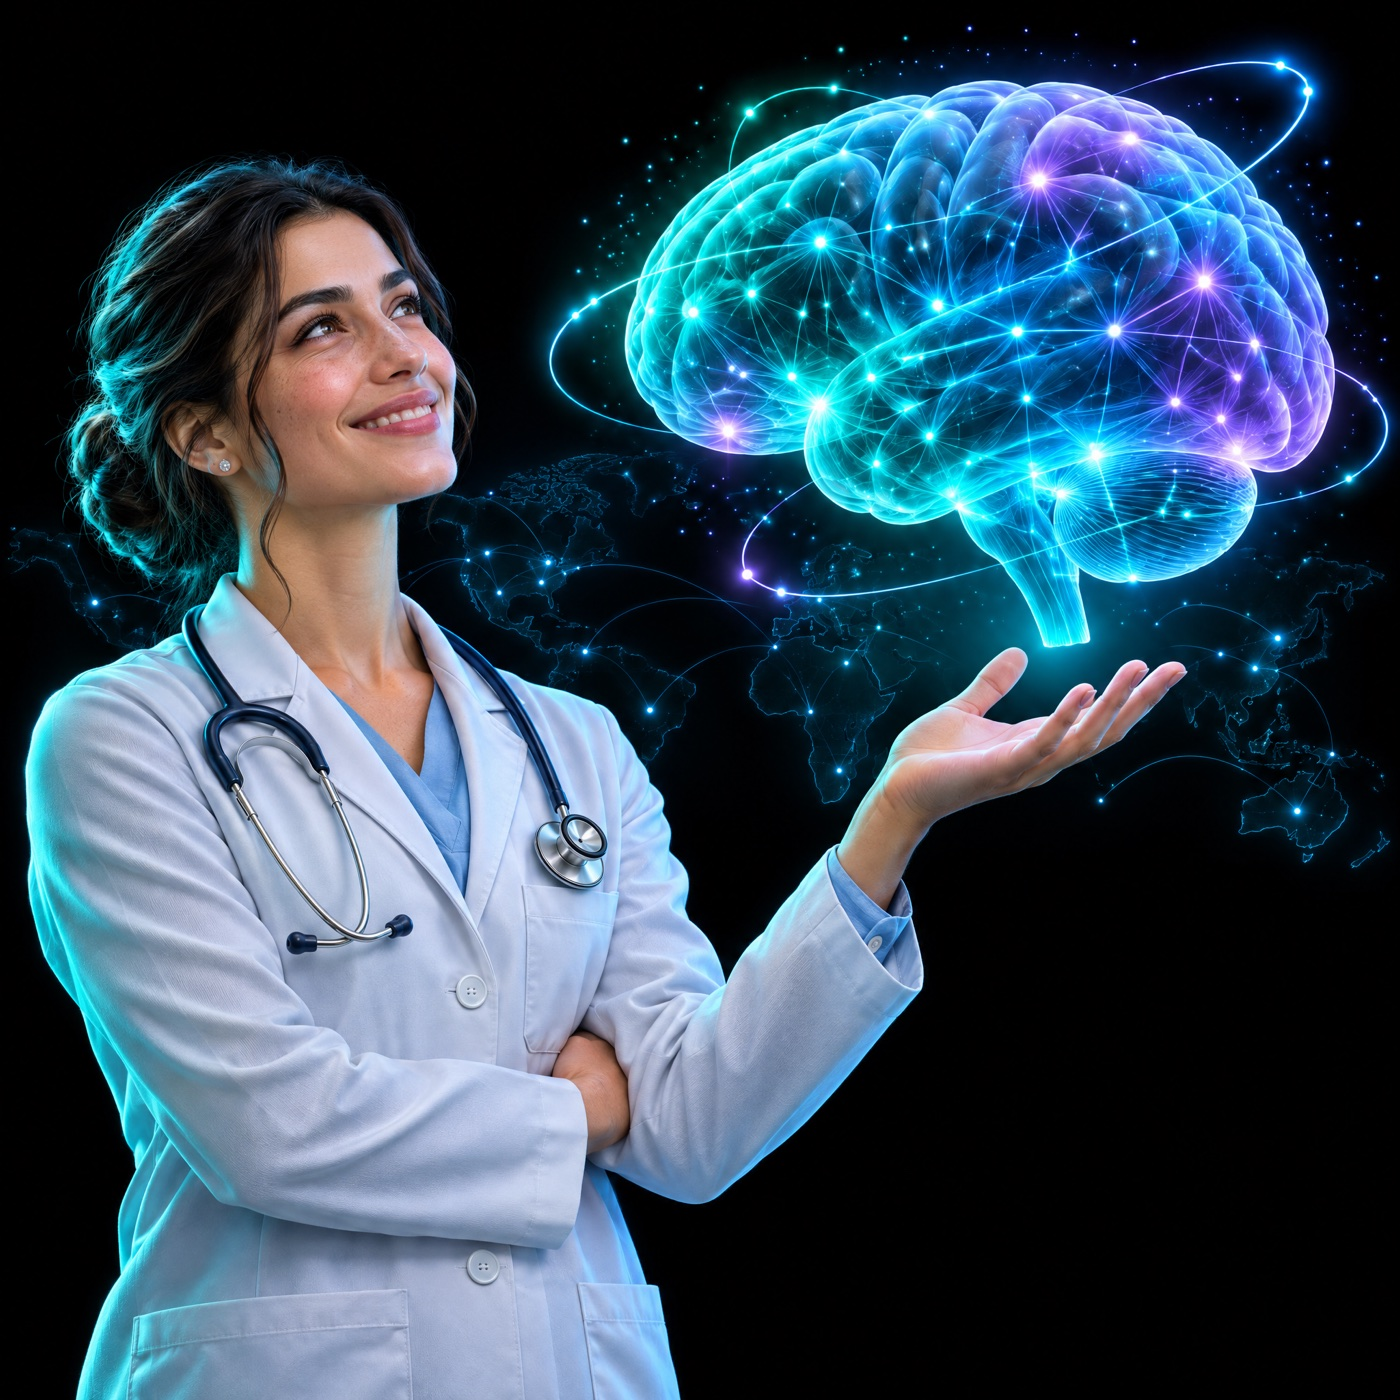
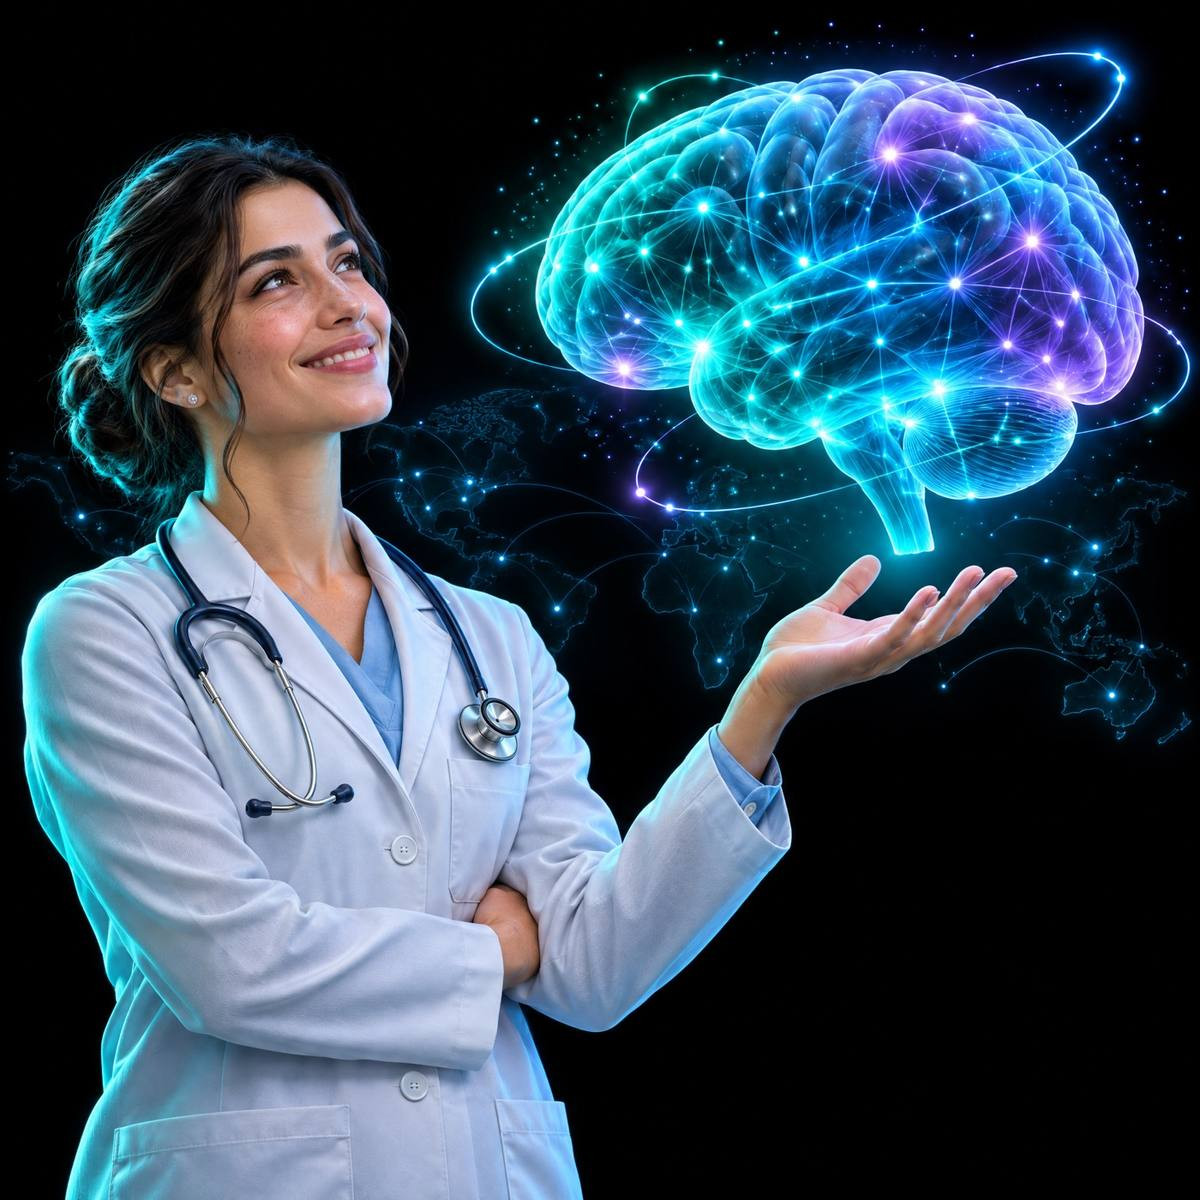
Faster on phones: light effects by default on phones and slower devices, no blur, animations pause in background tabs, less server polling, images 545/708 KB to 150/121 KB

diff --git a/index.html b/index.html
@@ -513,6 +513,12 @@ nav{border-bottom-color:hsla(var(--h),70%,50%,.25)!important}
 .card,.step,.fcol,.price,.place,.dir-card{border-color:hsla(var(--h),40%,40%,.28)}
 .sec-num,.kicker{transition:color .4s}
 @media (prefers-reduced-motion: reduce){#ambient{display:none}}
+html.fx-calm *,html.fx-off *{backdrop-filter:none!important;-webkit-backdrop-filter:none!important}
+html.fx-calm #ambient:after,html.fx-off #ambient{display:none}
+html.fx-calm .drift,html.fx-off .drift{transform:none!important}
+html.fx-calm nav{background:rgba(6,8,11,.96)}html.fx-calm[data-theme="light"] nav{background:rgba(255,255,255,.97)}
+html.fx-calm .brain-layer,html.fx-calm .brain-glow,html.fx-off .brain-layer,html.fx-off .brain-glow{animation:none!important}
+html.paused *,html.paused *:before,html.paused *:after{animation-play-state:paused!important}
 
 html.fx-calm .mv{transform:translateY(22px)!important;filter:none!important}
 html.fx-off .mv{opacity:1!important;transform:none!important;filter:none!important;transition:none!important}
@@ -1059,7 +1065,7 @@ html[data-theme="light"] .phone,html[data-theme="light"] .stage{--bg:#06080b;--p
       </div>
     </div>
     <div class="hero-visual">
-    <div class="hero-art"><img class="base" src="assets/hero-doctor-brain.jpg?v=2" alt="A doctor holding a glowing brain" width="1400" height="1400" decoding="async"><div class="brain-layer idle" id="brainLayer"><img src="assets/hero-doctor-brain.jpg?v=2" alt="" decoding="async"></div><span class="brain-glow"></span><button class="brain-btn" id="brainBtn" aria-label="Spin the brain"></button><span class="brain-tip notranslate" id="brainTip">✨ Click the brain</span></div>
+    <div class="hero-art"><img class="base" src="assets/hero-doctor-brain.jpg?v=3" fetchpriority="high" alt="A doctor holding a glowing brain" width="1400" height="1400" decoding="async"><div class="brain-layer idle" id="brainLayer"><img src="assets/hero-doctor-brain.jpg?v=2" alt="" decoding="async"></div><span class="brain-glow"></span><button class="brain-btn" id="brainBtn" aria-label="Spin the brain"></button><span class="brain-tip notranslate" id="brainTip">✨ Click the brain</span></div>
     <div class="phone">
       <div class="notch"></div>
       <div class="wa-head"><div class="av">C</div><div><b>Clinora · AI</b><span>online · replies instantly</span></div></div>
@@ -1240,7 +1246,7 @@ html[data-theme="light"] .phone,html[data-theme="light"] .stage{--bg:#06080b;--p
       <p>Read and study real medical books for free: open textbooks, public-domain classics and official health manuals from around the world. Everything here is free and legal to read.</p>
     </div>
     <div class="card bw-hero"><div class="bw-art" id="bwArt" role="button" tabindex="0" aria-label="Interactive medical hologram, tap to animate">
-        <div class="bw-tilt"><img src="assets/med-library.jpg" alt="A glowing holographic human anatomy rising from an open medical book"></div>
+        <div class="bw-tilt"><img src="assets/med-library.jpg?v=2" loading="lazy" decoding="async" alt="A glowing holographic human anatomy rising from an open medical book"></div>
         <span class="bw-shine"></span><canvas class="bw-fx" id="bwFx"></canvas><span class="bw-tip">✨ Tap the hologram</span></div>
       <div class="in"><h3>What do you want to learn today?</h3><p>Search millions of free books on Google Books and the Open Library, or start with a hand-picked shelf below.</p>
         <form class="book-search" id="bookForm"><input id="bookQ" placeholder="e.g. anatomy, heart, nursing, first aid" required><button class="btn primary sm" type="submit">Search</button></form>
@@ -1410,6 +1416,9 @@ const dateLabel=s=>{const d=new Date(s+'T00:00');const t=ymd(new Date()),k=ymd(a
 
 /* ---------- STYLE SETTINGS (motion, colours, font, size) ---------- */
 const FX=Object.assign({motion:1,colors:true,hue:170,font:'modern',size:1},(()=>{try{const o=JSON.parse(localStorage.getItem('sd_fx'))||{};if(o.v!==2){o.motion=1;o.v=2}return o}catch{return {v:2}}})());
+// Lite by default on phones, low-memory devices and "data saver": smooth instead of laggy. People can turn effects back up in Style.
+const LOW_END=(()=>{try{const n=navigator,c=n.connection||{};return !!(c.saveData||(n.deviceMemory&&n.deviceMemory<=4)||(n.hardwareConcurrency&&n.hardwareConcurrency<=4)||matchMedia('(pointer:coarse)').matches||innerWidth<760)}catch{return false}})();
+if(!FX.userMotion&&LOW_END)FX.motion=.3;
 const FONTS={modern:'-apple-system,BlinkMacSystemFont,"Segoe UI",Roboto,Helvetica,Arial,sans-serif',
   rounded:'ui-rounded,"SF Pro Rounded","Nunito","Varela Round",-apple-system,"Segoe UI",Roboto,sans-serif',
   elegant:'ui-serif,"New York","Iowan Old Style",Georgia,"Times New Roman",serif',
@@ -2432,7 +2441,7 @@ loadPrices();
   function set(k,v){FX[k]=v;applyFX();sync();if(window.__kick)window.__kick();dispatchEvent(new Event('scroll'))}
   document.getElementById('fxBtn').onclick=e=>{e.stopPropagation();P.classList.toggle('on')};
   document.addEventListener('click',e=>{if(!e.target.closest('.fxwrap'))P.classList.remove('on')});
-  P.querySelectorAll('#fxMotion button').forEach(b=>b.onclick=()=>set('motion',+b.dataset.m));
+  P.querySelectorAll('#fxMotion button').forEach(b=>b.onclick=()=>{FX.userMotion=true;set('motion',+b.dataset.m)});
   document.getElementById('fxColors').onclick=()=>set('colors',!FX.colors);
   document.getElementById('fxHue').oninput=e=>{FX.colors=false;set('hue',+e.target.value)};
   P.querySelectorAll('#fxFonts button').forEach(b=>b.onclick=()=>set('font',b.dataset.f));
@@ -3968,7 +3977,8 @@ async function bookSearch(){const q=$('#bookQ').value.trim();if(!q)return;const 
     <b>${esc(b.t)}</b><span>${esc([b.a,b.y].filter(Boolean).join(' · '))}</span><span>${b.src}</span><span class="rd">Read free ↗</span></a>`).join('');
 }
 
-loadDB();setInterval(loadDB,8000);
+loadDB();setInterval(()=>{if(!document.hidden)loadDB()},15000);
+document.addEventListener('visibilitychange',()=>{document.documentElement.classList.toggle('paused',document.hidden);if(!document.hidden)loadDB()});
 go(location.hash.slice(1)||'home');
 
 /* ================= LIGHT / DARK THEME ================= */
